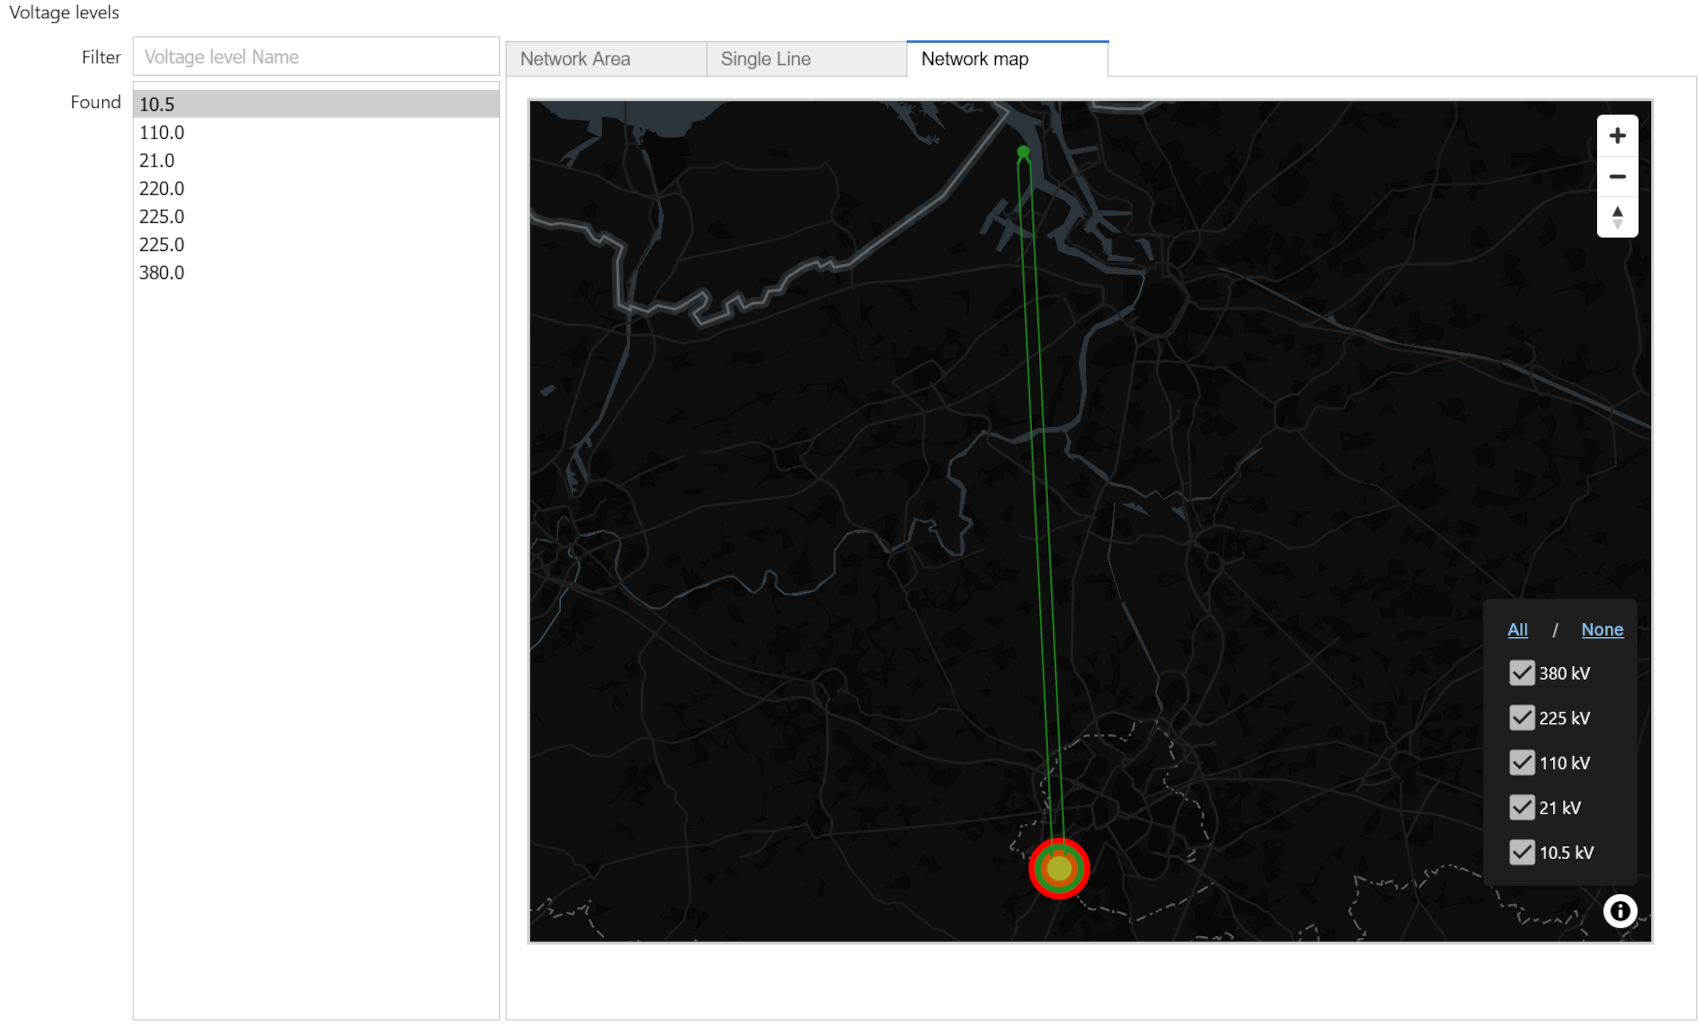
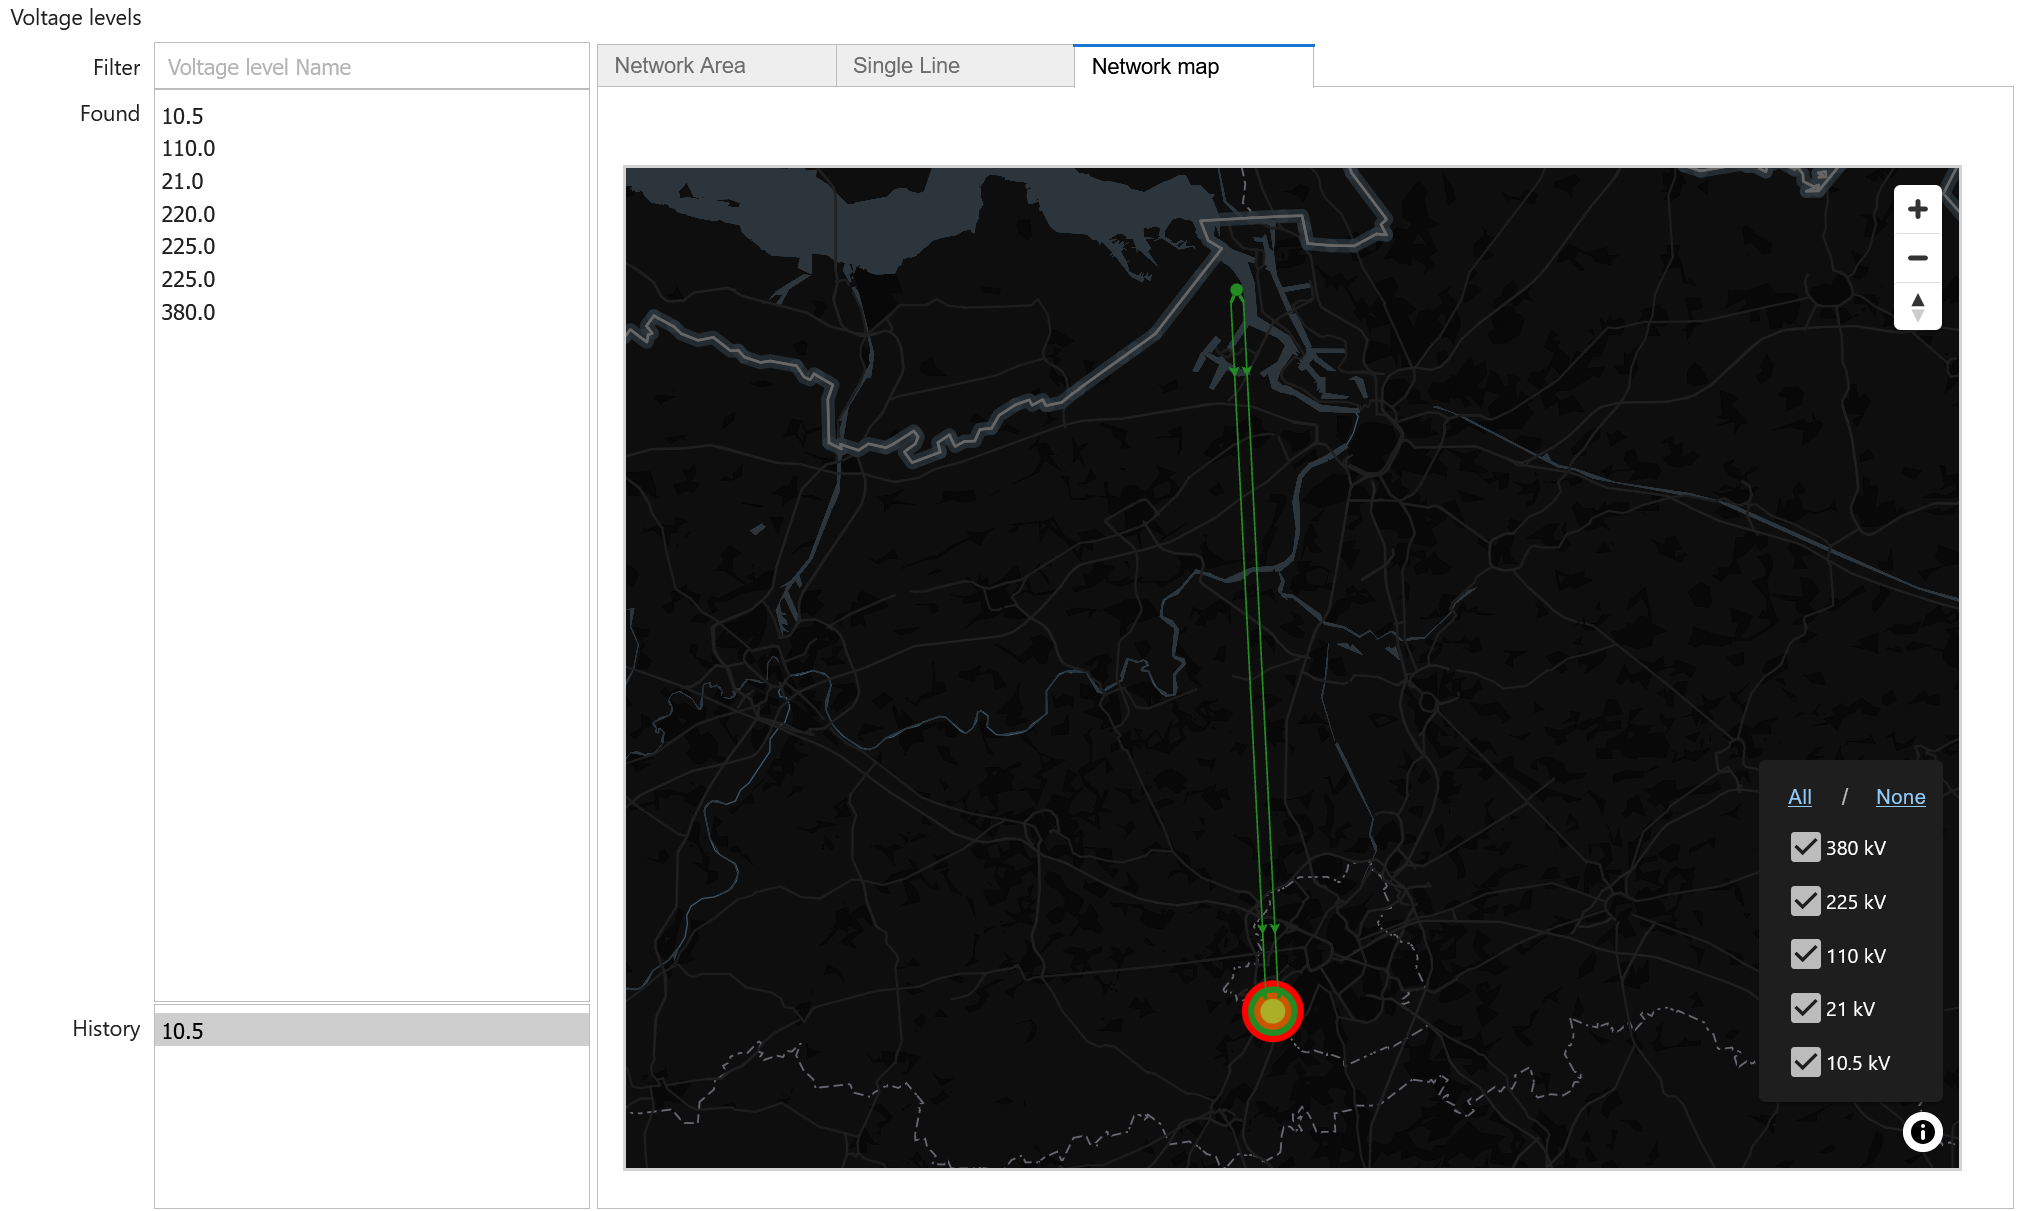
updates docs' screenshots to include the history box

diff --git a/docs/user_guide/network_explorer.md b/docs/user_guide/network_explorer.md
@@ -2,7 +2,7 @@
 
 Network explorer is interactive network explorer widget, built on pypowsybl-jupyter's widgets (SLD, NAD, Network map) and some standard [ipywidgets](https://ipywidgets.readthedocs.io/en/stable/index.html): select lists, tabs, etc.
 
-Through the widget, you can select a voltage level from the list (or search of a specific one using the Filter) and the NAD and SLD diagrams for that voltage level will be displayed in the two "Network Area" and "Single Line" tabs, respectively. Both diagrams can be panned and zoomed. A third tab, 'Network map' displays the network's substations and lines on a map, if substations and lines geo data is available in the network.
+Through the widget, you can select a voltage level from the list (or search of a specific one using the Filter) and the NAD and SLD diagrams for that voltage level will be displayed in the two "Network Area" and "Single Line" tabs, respectively. Both diagrams can be panned and zoomed. A third tab, 'Network map' displays the network's substations and lines on a map, if substations and lines geo data is available in the network. The last displayed voltage levels are listed in a history box, on the explorer's bottom left corner.
 
 The following code, to be run in a notebook, first creates a network, then displays the network explorer on it.
 
